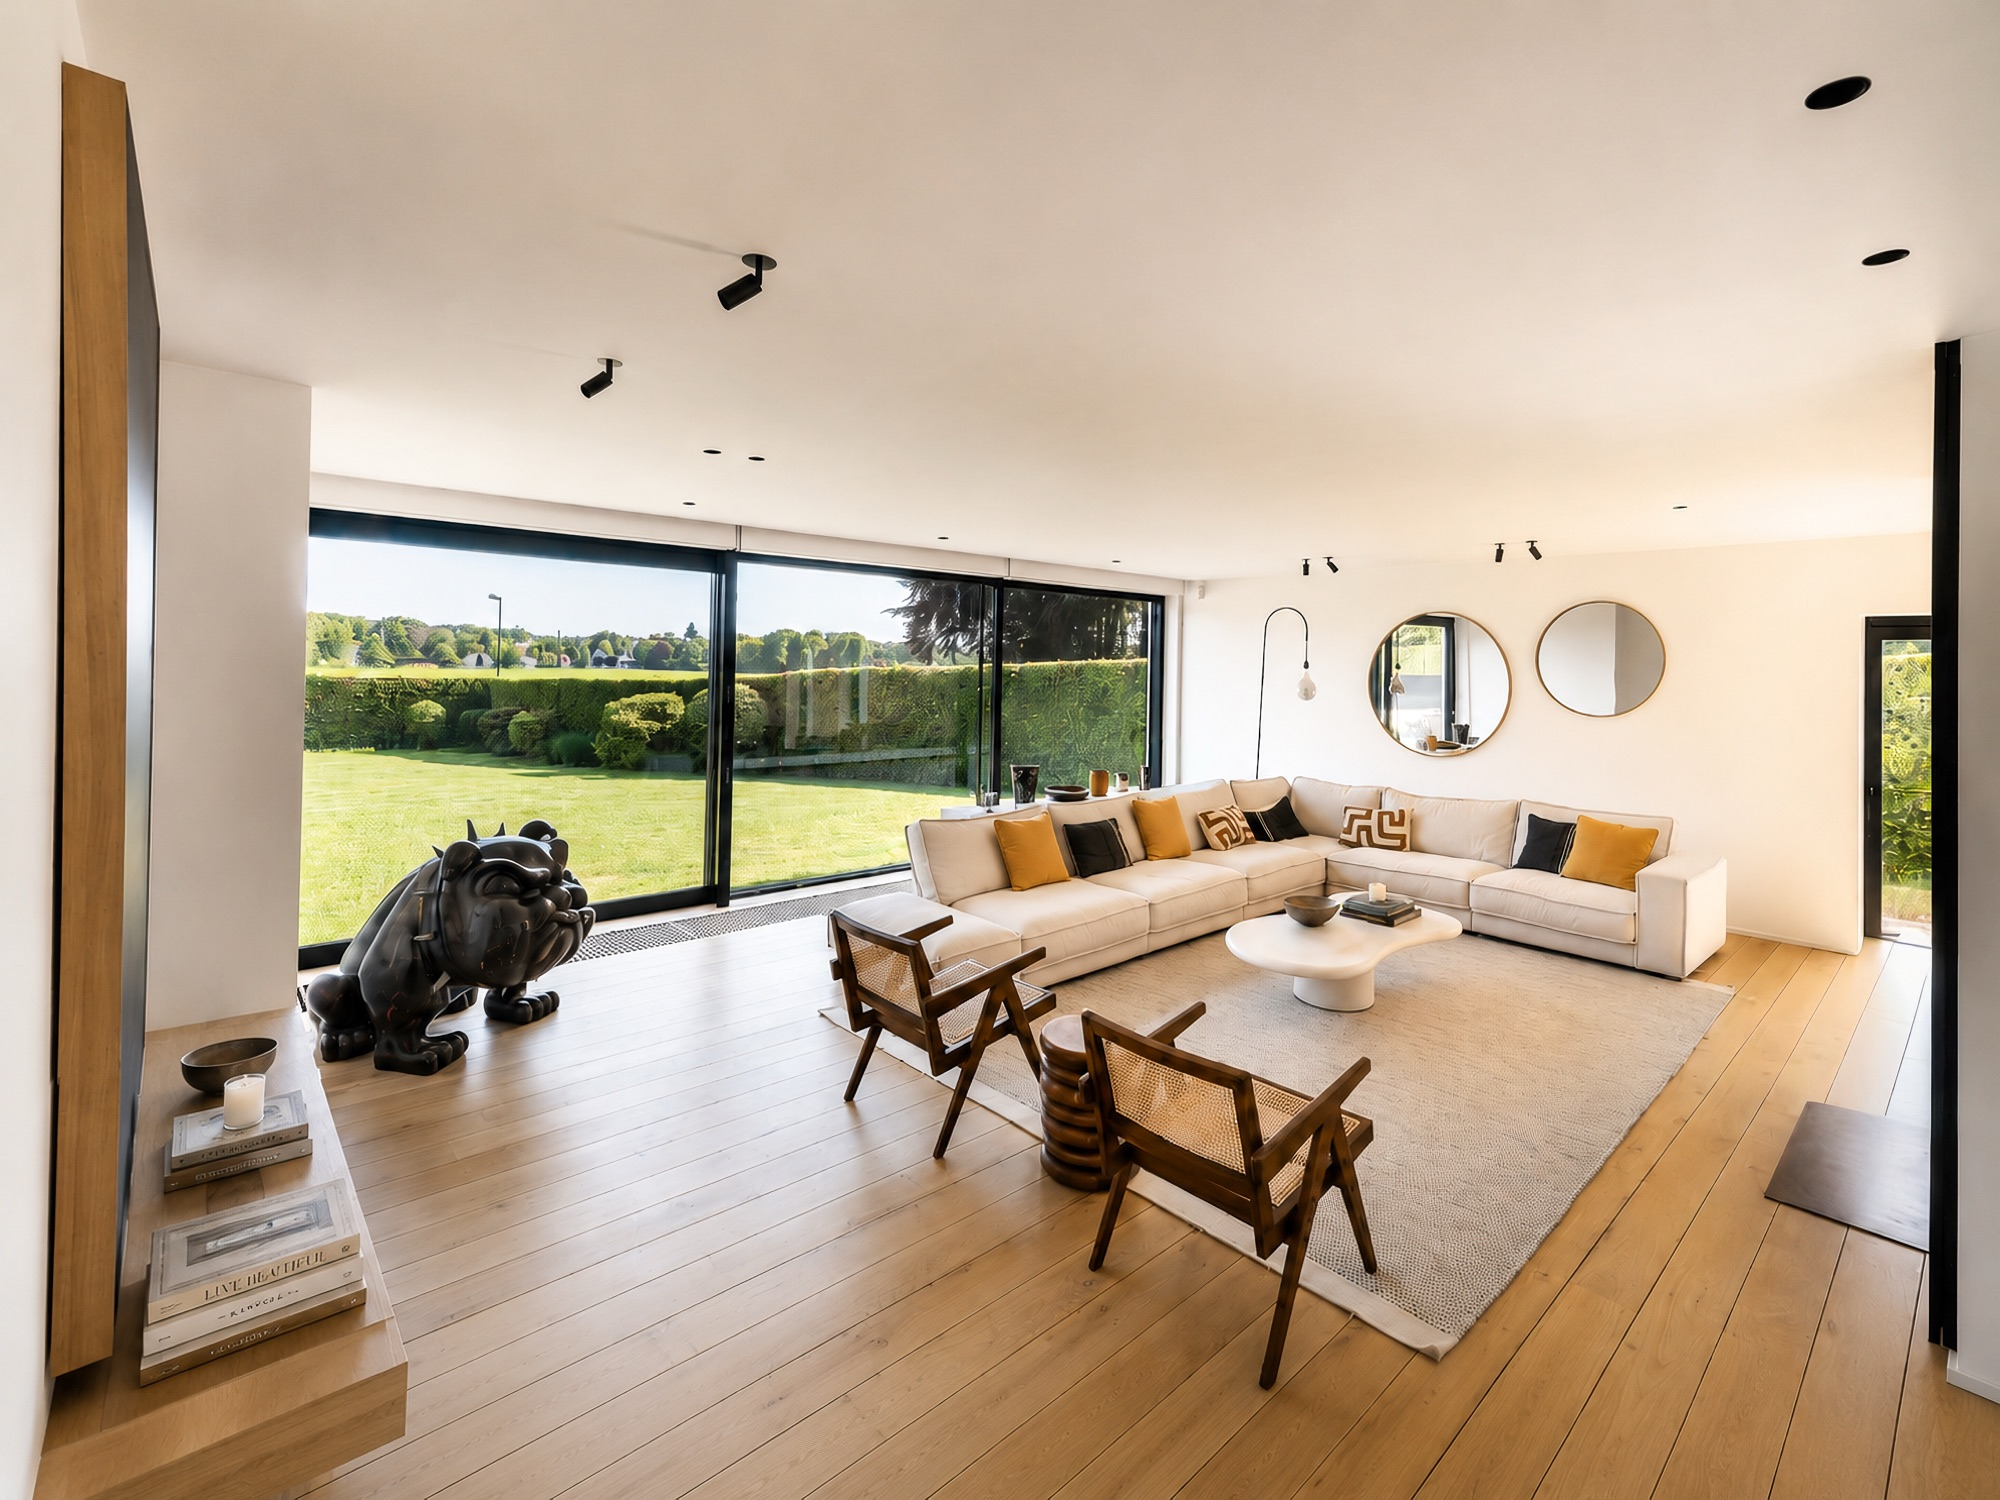
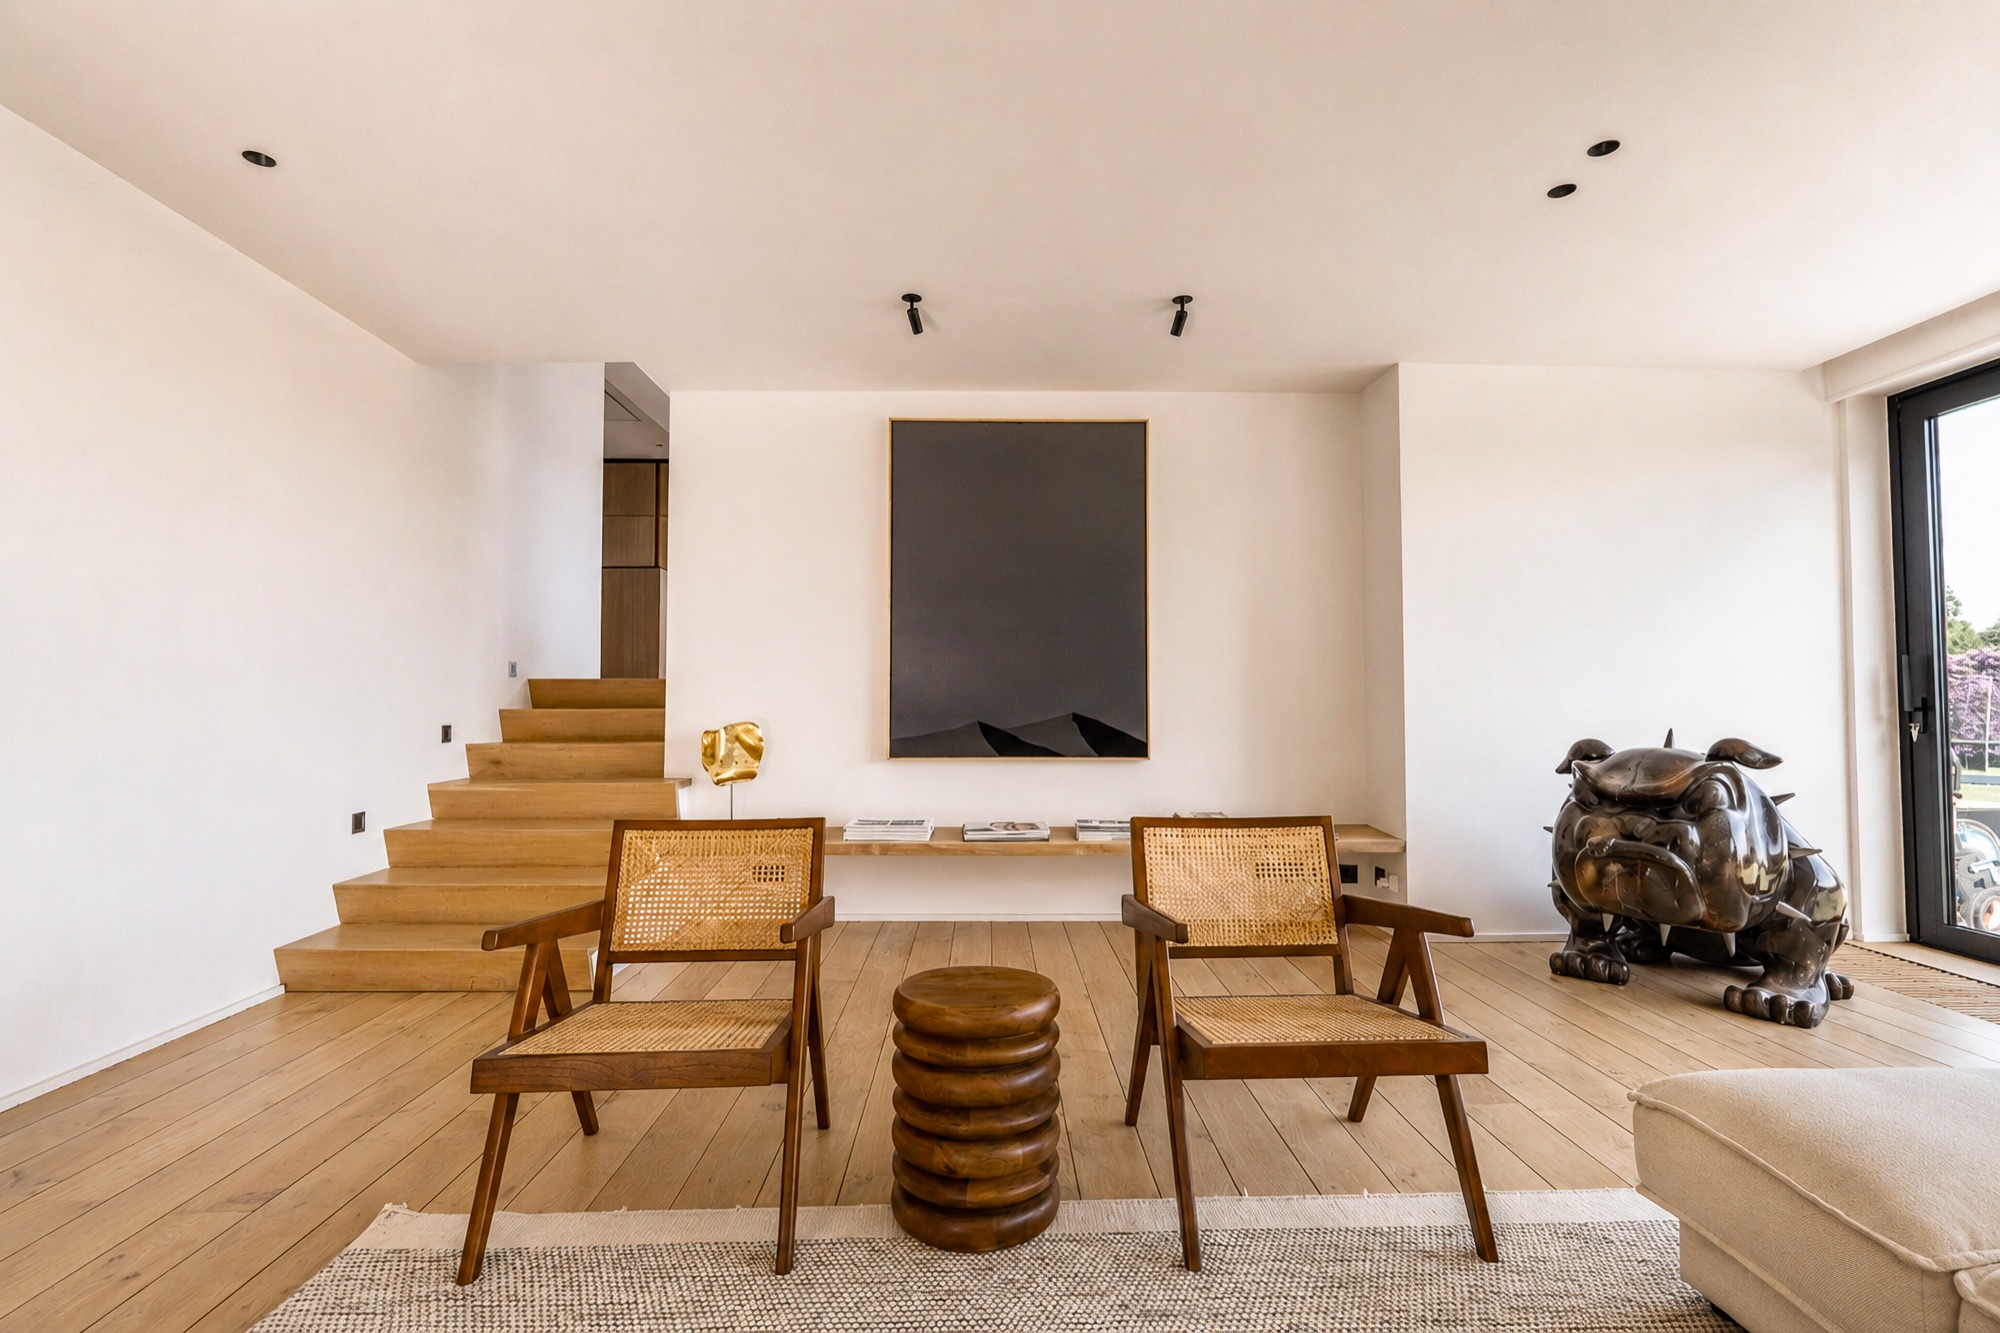
Section Film : remplacer l'image de droite par chaises Jeanneret + œuvre
🤖 Generated with Claude Code

diff --git a/index.html b/index.html
@@ -1942,7 +1942,7 @@
         </figure>
 
         <figure class="ff-card reveal">
-          <img class="ff-card__video ff-card__video--zoom" src="assets/images/film-salon-photo.jpg" alt="Le salon ouvert sur le jardin" loading="lazy" />
+          <img class="ff-card__video ff-card__video--zoom" src="assets/images/film-salon-photo.jpg" alt="Chaises Pierre Jeanneret et œuvre sur fond d'escalier en chêne" loading="lazy" />
         </figure>
 
       </div>
